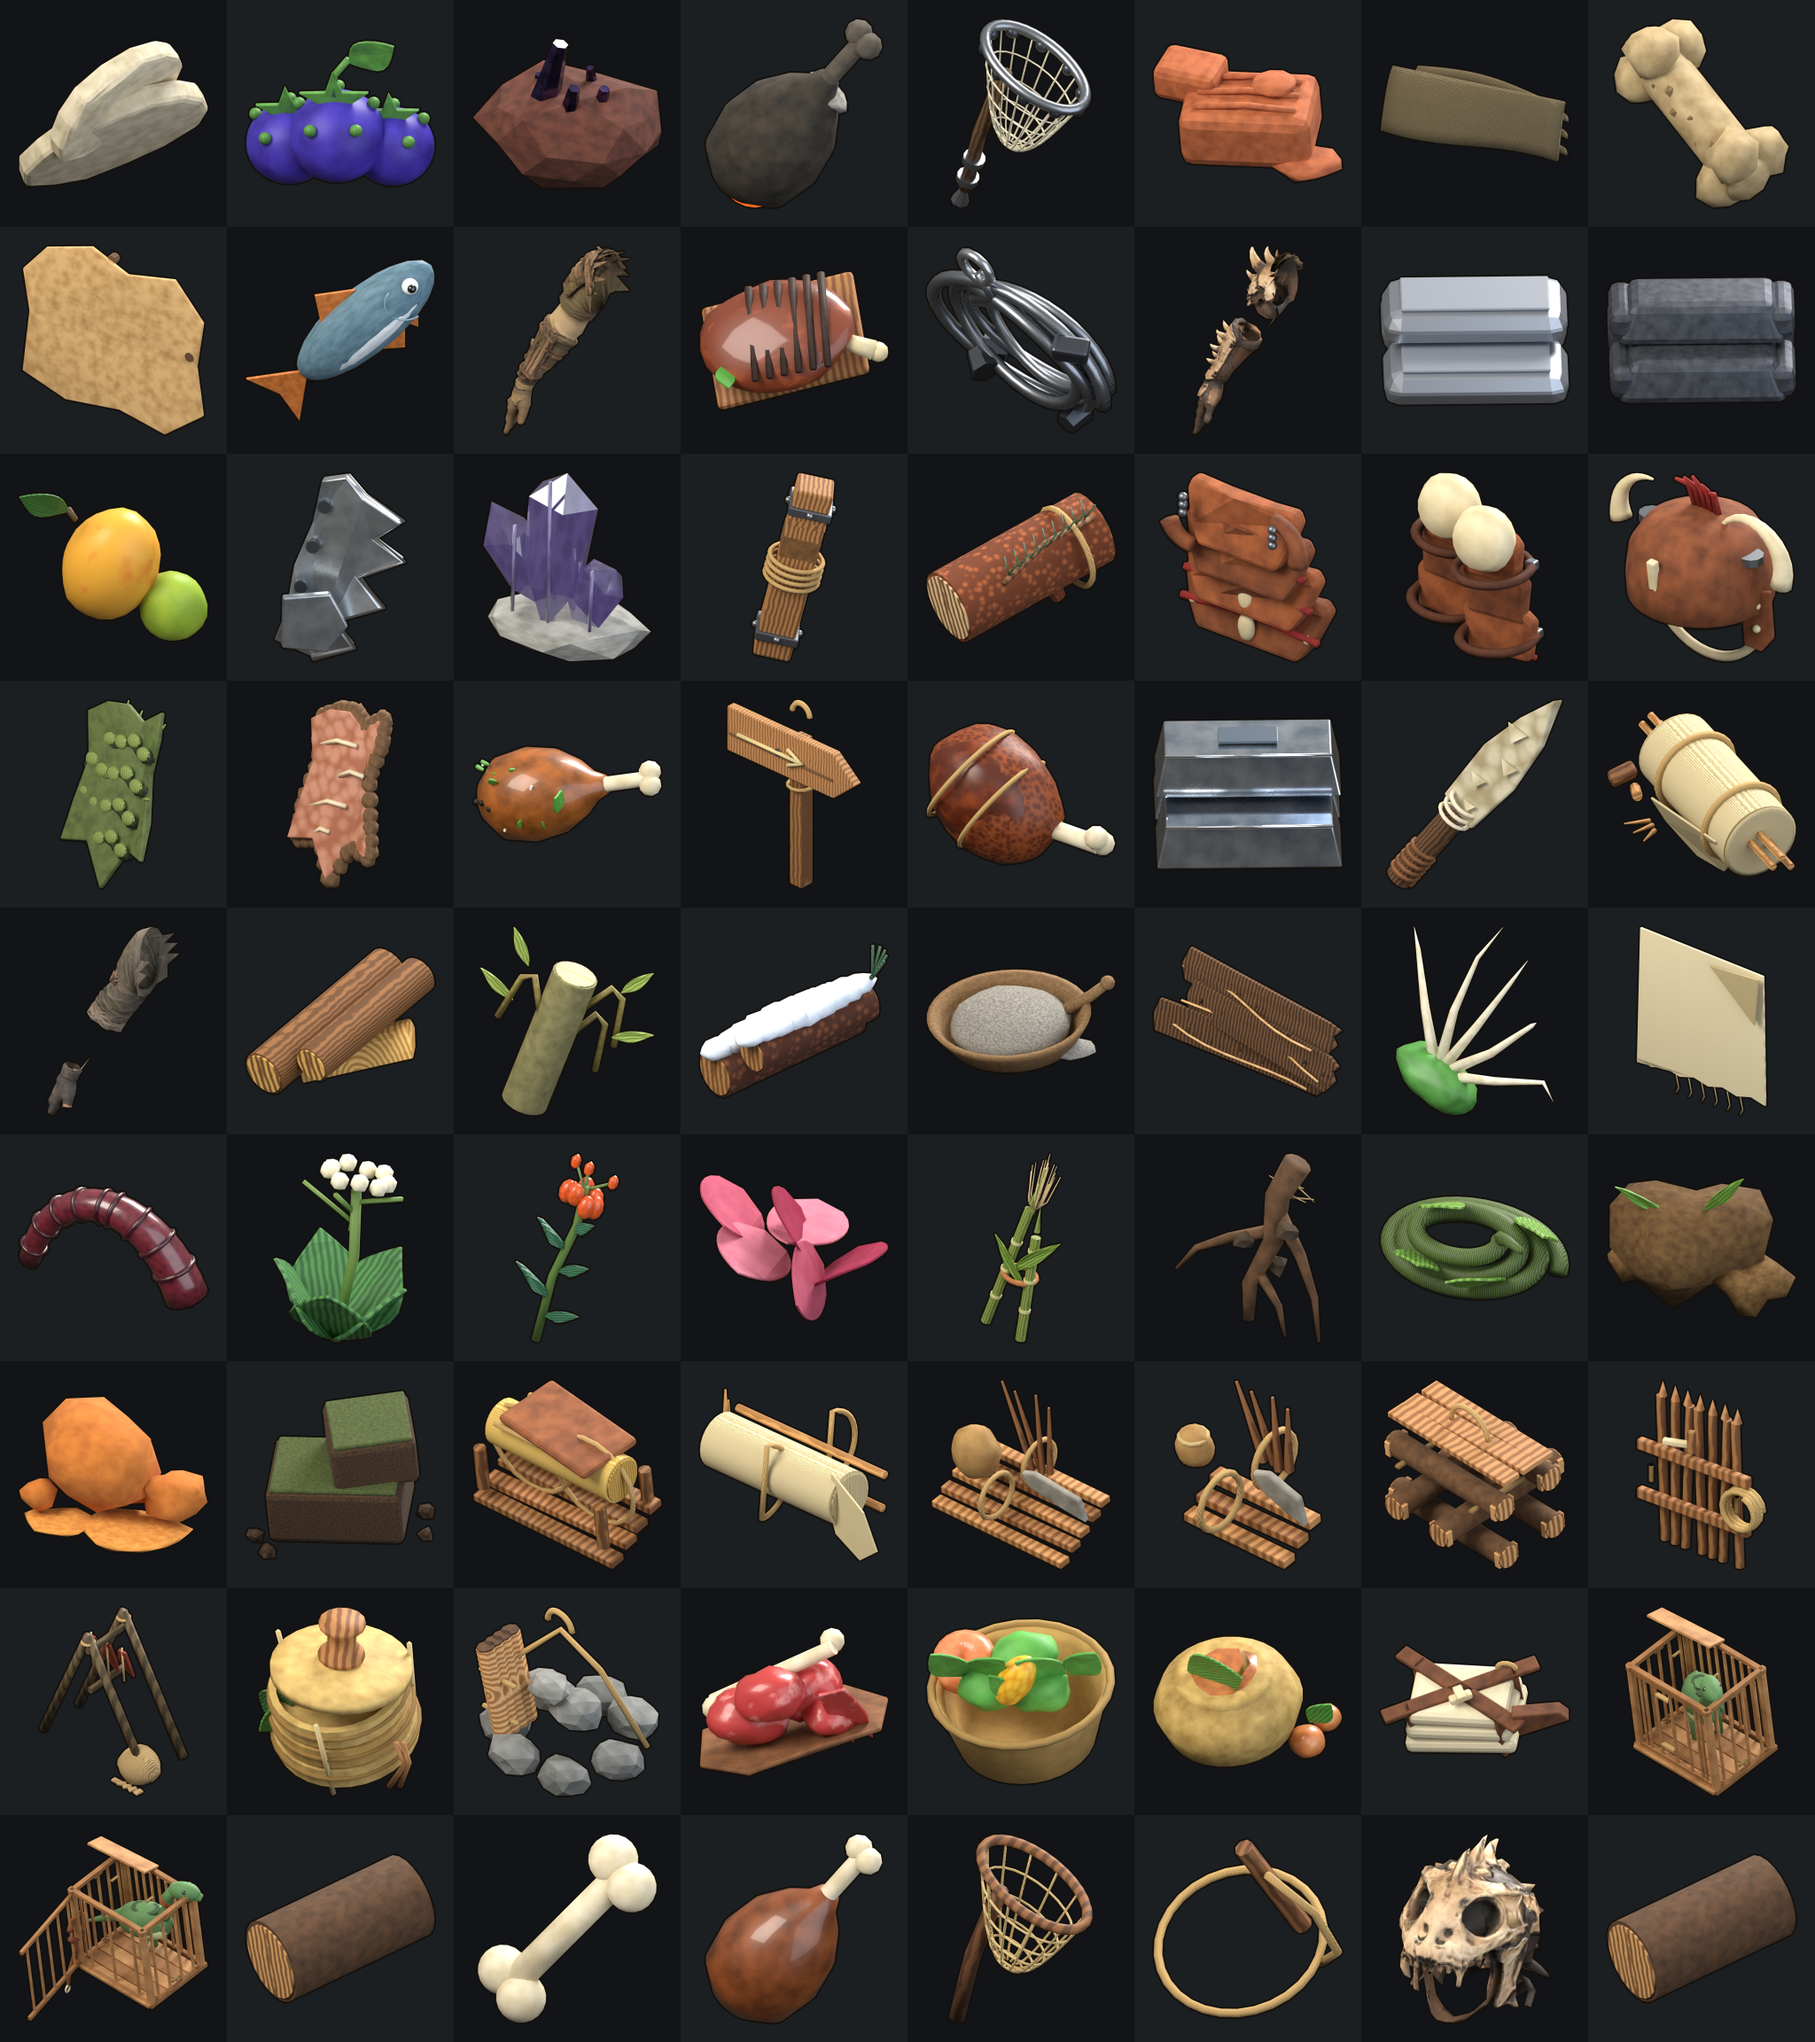
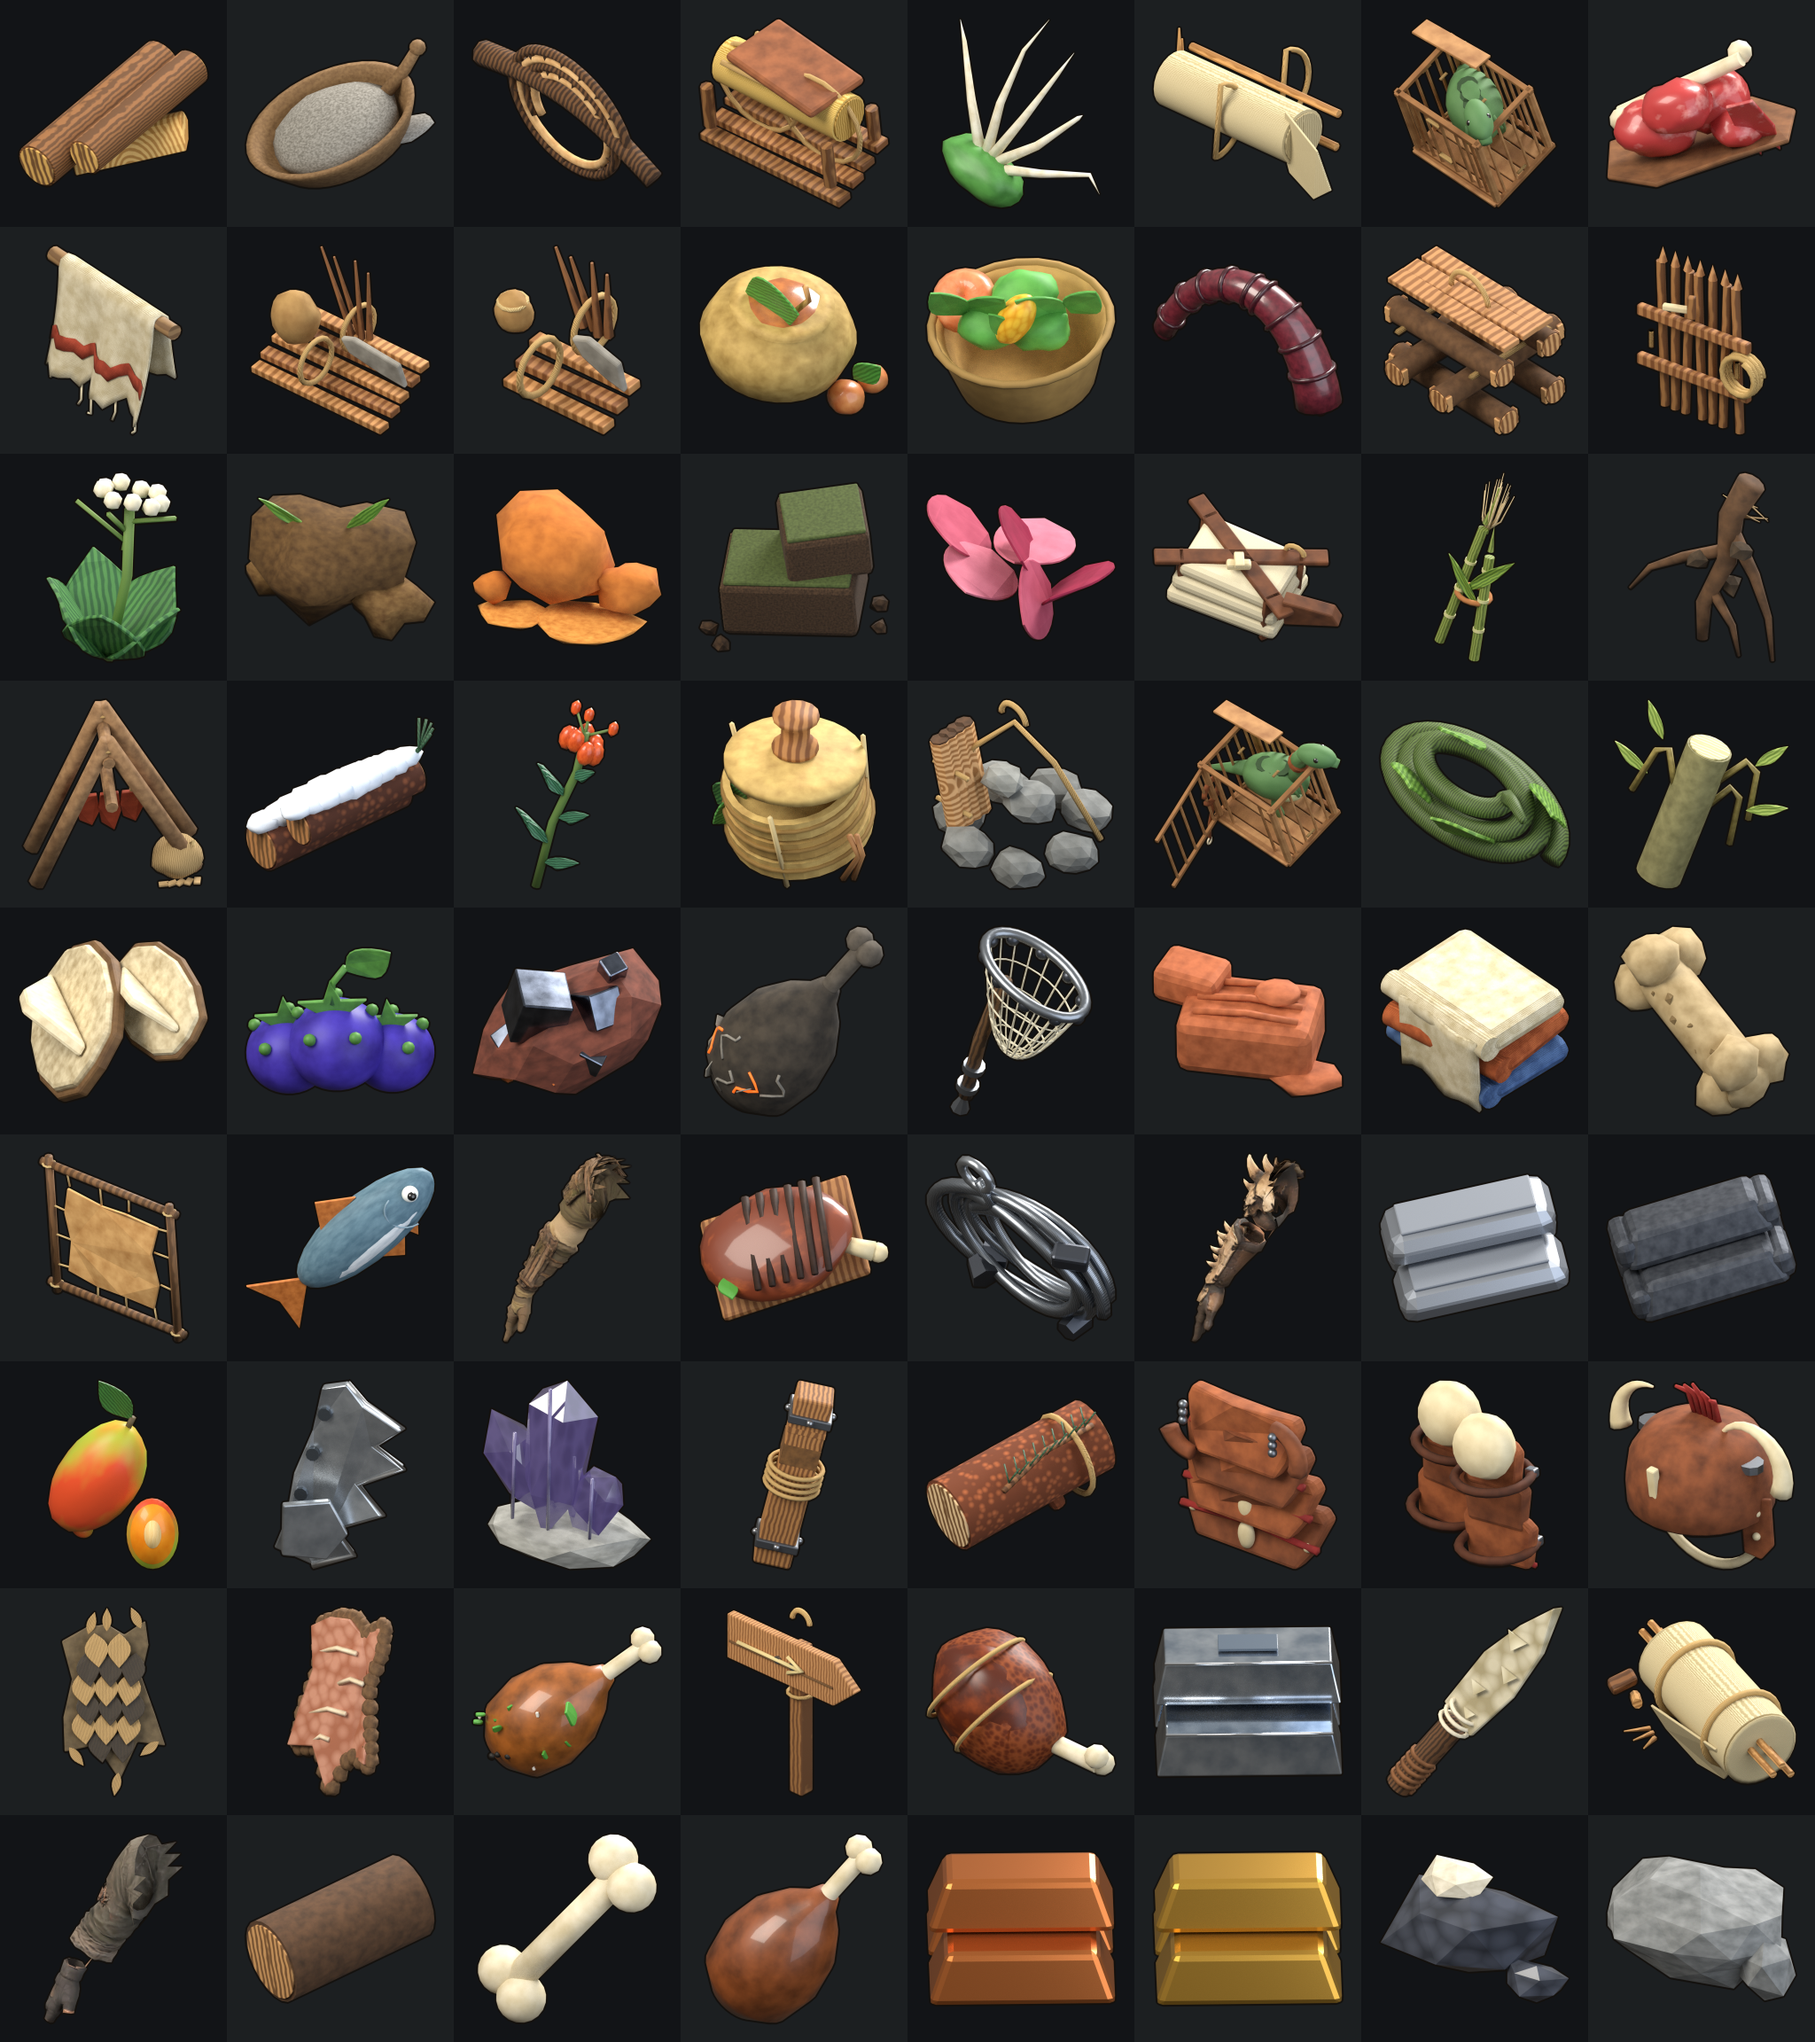
ICONS2: t_iconart skips the symbol-fallback subject once every item is rendered; mark texts; sheets
Every items.json id now has a render, so 'some unrendered item has a symbol' can never hold;
the junk-id fallback checks still cover the path. Drop dsc's verify_icons2_local.sh.

diff --git a/tools/render_icons.py b/tools/render_icons.py
@@ -33,23 +33,23 @@ MAX_BYTES = 64 * 1024
 # Owner rule: low-quality / low-poly art is marked for replacement by newer, higher-quality art.
 # The whole set is procedural primitives (tier "procedural_v1"); these few read worst at slot size.
 REPLACE = {
-    # Round 6 (dsc icons2): every id in this register was redone and now reads at slot size. These
+    # Round 6 (ICONS2, dsc then Claude): every id in this register was redone and now reads at slot size. These
     # fourteen keep their mark because game/tests/t_iconart.gd requires them in the replacement
     # register (it pins the art judge's illegible renders); the others were cleared.
     "iron_ingot": "redone as pitted rough-cast bars; mark kept because t_iconart pins it (steel/ingot differ now)",
     "steel_ingot": "redone as polished stamped bars; mark kept because t_iconart pins it",
     "ingot": "redone as rounded cast loaves; mark kept because t_iconart pins it",
-    "black_iron": "redone as purple crystals in a red host; mark kept because t_iconart pins it",
+    "black_iron": "redone as gunmetal cubes in a rust-red host; mark kept because t_iconart pins it",
     "obsidian": "redone as glass shards on pale stone; mark kept because t_iconart pins it",
     "berry": "redone as a calyxed berry cluster; mark kept because t_iconart pins it",
     "burnt_food": "redone as charcoal with ash dust; mark kept because t_iconart pins it",
-    "mango": "redone as a blushed fruit with a leaf; mark kept because t_iconart pins it",
+    "mango": "redone as a kidney-shaped blushed fruit with a cut cheek; mark kept because t_iconart pins it",
     "fish": "redone as a silver-blue fish with a lateral line; mark kept because t_iconart pins it",
     "stone_knife": "redone as pale knapped flint with a wrapped handle; mark kept because t_iconart pins it",
     "raid_helm": "redone as a horned war helm with a plume, no head; mark kept because t_iconart pins it",
-    "travel_sleeves": "now one arm (the pair was cropped); mark kept because t_iconart pins it",
-    "forager_wraps": "now one arm (the pair was cropped); mark kept because t_iconart pins it",
-    "hide_bone_bracers": "now one arm (the pair was cropped); mark kept because t_iconart pins it",
+    "travel_sleeves": "now one arm, cuff and glove slid together (gap closed); mark kept because t_iconart pins it",
+    "forager_wraps": "now one arm (the pair was cropped), parts touching; mark kept because t_iconart pins it",
+    "hide_bone_bracers": "now one arm, pauldron and bracer slid together (gap closed); mark kept because t_iconart pins it",
 }
 PROCEDURAL = "procedural_v1"
 # Known tiers, lowest first. A GLB render (the route for better art) never becomes procedural_v1.
